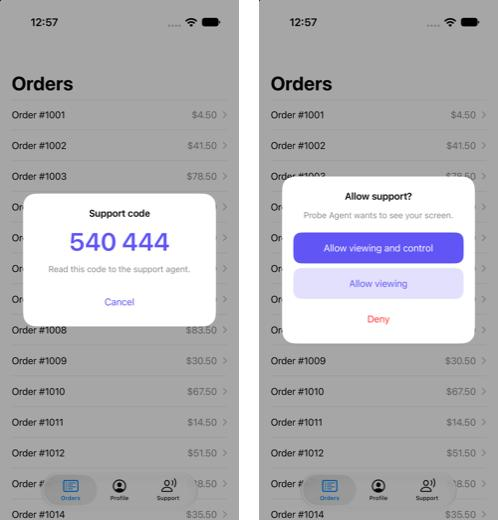
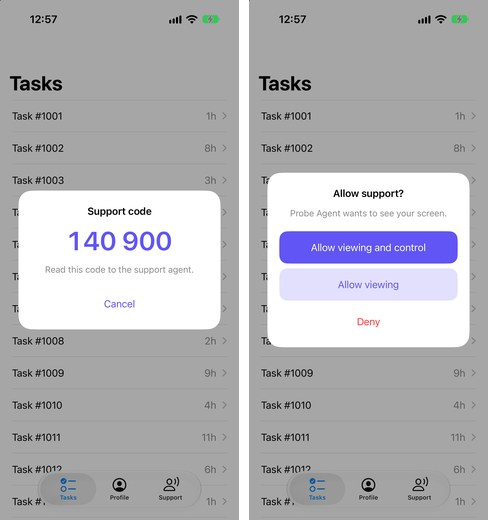
Make the sample app a generic task list
Replace the order-taking screens with tasks, swap the card masking demo for a recovery key, and retake the README screenshots.

diff --git a/Examples/SampleApp/SampleApp/TasksViewController.swift b/Examples/SampleApp/SampleApp/TasksViewController.swift
@@ -1,47 +1,47 @@
 import UIKit
 
-struct Order {
+struct Todo {
     let number: Int
-    let total: Double
-    var label: String { "Order #\(number)" }
-    var amount: String { String(format: "$%.2f", total) }
+    let hours: Int
+    var label: String { "Task #\(number)" }
+    var estimate: String { "\(hours)h" }
 }
 
-final class OrdersViewController: UITableViewController {
+final class TasksViewController: UITableViewController {
 
-    private let orders = (0..<40).map { Order(number: 1001 + $0, total: Double(($0 * 37) % 90) + 4.5) }
+    private let tasks = (0..<40).map { Todo(number: 1001 + $0, hours: ($0 * 7) % 12 + 1) }
 
     override func viewDidLoad() {
         super.viewDidLoad()
-        title = "Orders"
+        title = "Tasks"
         navigationController?.navigationBar.prefersLargeTitles = true
     }
 
     override func tableView(_ tableView: UITableView, numberOfRowsInSection section: Int) -> Int {
-        orders.count
+        tasks.count
     }
 
     override func tableView(_ tableView: UITableView, cellForRowAt indexPath: IndexPath) -> UITableViewCell {
-        let cell = tableView.dequeueReusableCell(withIdentifier: "order") ?? UITableViewCell(style: .value1, reuseIdentifier: "order")
-        cell.textLabel?.text = orders[indexPath.row].label
-        cell.detailTextLabel?.text = orders[indexPath.row].amount
+        let cell = tableView.dequeueReusableCell(withIdentifier: "task") ?? UITableViewCell(style: .value1, reuseIdentifier: "task")
+        cell.textLabel?.text = tasks[indexPath.row].label
+        cell.detailTextLabel?.text = tasks[indexPath.row].estimate
         cell.accessoryType = .disclosureIndicator
         return cell
     }
 
     override func tableView(_ tableView: UITableView, didSelectRowAt indexPath: IndexPath) {
-        navigationController?.pushViewController(OrderDetailViewController(order: orders[indexPath.row]), animated: true)
+        navigationController?.pushViewController(TaskDetailViewController(task: tasks[indexPath.row]), animated: true)
     }
 }
 
-final class OrderDetailViewController: UIViewController, UIPopoverPresentationControllerDelegate {
+final class TaskDetailViewController: UIViewController, UIPopoverPresentationControllerDelegate {
 
-    private let order: Order
+    private let task: Todo
     private let optionsButton = UIButton(configuration: .tinted())
     private let summary = UILabel()
 
-    init(order: Order) {
-        self.order = order
+    init(task: Todo) {
+        self.task = task
         super.init(nibName: nil, bundle: nil)
     }
 
@@ -49,23 +49,23 @@ final class OrderDetailViewController: UIViewController, UIPopoverPresentationCo
 
     override func viewDidLoad() {
         super.viewDidLoad()
-        title = order.label
+        title = task.label
         navigationItem.largeTitleDisplayMode = .never
         view.backgroundColor = .systemGroupedBackground
 
-        summary.text = "Total \(order.amount)"
+        summary.text = "Estimate \(task.estimate)"
         summary.font = .preferredFont(forTextStyle: .title2)
 
-        let paid = UISwitch()
-        paid.addAction(UIAction { [weak self] action in
-            self?.summary.text = "Total \(self?.order.amount ?? "")" + ((action.sender as? UISwitch)?.isOn == true ? " · Paid" : "")
+        let done = UISwitch()
+        done.addAction(UIAction { [weak self] action in
+            self?.summary.text = "Estimate \(self?.task.estimate ?? "")" + ((action.sender as? UISwitch)?.isOn == true ? " · Done" : "")
         }, for: .valueChanged)
 
-        let type = UISegmentedControl(items: ["Dine in", "Takeaway", "Delivery"])
-        type.selectedSegmentIndex = 0
+        let priority = UISegmentedControl(items: ["Low", "Medium", "High"])
+        priority.selectedSegmentIndex = 1
 
         let note = UITextField()
-        note.placeholder = "Note for the kitchen"
+        note.placeholder = "Add a comment"
         note.borderStyle = .roundedRect
         note.returnKeyType = .done
         note.addAction(UIAction { _ in note.resignFirstResponder() }, for: .editingDidEndOnExit)
@@ -75,13 +75,13 @@ final class OrderDetailViewController: UIViewController, UIPopoverPresentationCo
 
         let toast = UIButton(configuration: .tinted())
         toast.configuration?.title = "Save"
-        toast.addAction(UIAction { _ in Toast.show("Order saved") }, for: .touchUpInside)
+        toast.addAction(UIAction { _ in Toast.show("Task saved") }, for: .touchUpInside)
 
-        let card = UIButton(configuration: .plain())
-        card.configuration?.title = "Payment card details"
-        card.addAction(UIAction { [weak self] _ in self?.navigationController?.pushViewController(CardDetailsViewController(), animated: true) }, for: .touchUpInside)
+        let secret = UIButton(configuration: .plain())
+        secret.configuration?.title = "Recovery key"
+        secret.addAction(UIAction { [weak self] _ in self?.navigationController?.pushViewController(RecoveryKeyViewController(), animated: true) }, for: .touchUpInside)
 
-        let stack = UIStackView(arrangedSubviews: [summary, row("Paid", paid), type, note, optionsButton, toast, card])
+        let stack = UIStackView(arrangedSubviews: [summary, row("Done", done), priority, note, optionsButton, toast, secret])
         stack.axis = .vertical
         stack.spacing = 18
         stack.translatesAutoresizingMaskIntoConstraints = false
@@ -120,7 +120,7 @@ final class OrderDetailViewController: UIViewController, UIPopoverPresentationCo
 
 final class OptionsViewController: UITableViewController {
 
-    private let choices = ["No onions", "Extra spicy", "Gift wrap", "Call on arrival"]
+    private let choices = ["Remind me", "Flag", "Duplicate", "Move to next week"]
     private let onChoose: (String) -> Void
 
     init(onChoose: @escaping (String) -> Void) {
@@ -146,13 +146,13 @@ final class OptionsViewController: UITableViewController {
     }
 }
 
-final class CardDetailsViewController: UIViewController {
+final class RecoveryKeyViewController: UIViewController {
     override func viewDidLoad() {
         super.viewDidLoad()
-        title = "Card"
+        title = "Recovery key"
         view.backgroundColor = .systemBackground
         let label = UILabel()
-        label.text = "4242 4242 4242 4242\nExp 12/29 · CVC 123"
+        label.text = "K7QD-29XF-M4LP\nRW8N-3HCT-V6ZB"
         label.numberOfLines = 0
         label.textAlignment = .center
         label.font = .monospacedDigitSystemFont(ofSize: 24, weight: .medium)

diff --git a/Examples/SampleApp/SampleApp/AppDelegate.swift b/Examples/SampleApp/SampleApp/AppDelegate.swift
@@ -20,12 +20,12 @@ final class SceneDelegate: UIResponder, UIWindowSceneDelegate {
 final class RootTabController: UITabBarController {
     override func viewDidLoad() {
         super.viewDidLoad()
-        let orders = UINavigationController(rootViewController: OrdersViewController())
-        orders.tabBarItem = UITabBarItem(title: "Orders", image: UIImage(systemName: "list.bullet.rectangle"), tag: 0)
+        let tasks = UINavigationController(rootViewController: TasksViewController())
+        tasks.tabBarItem = UITabBarItem(title: "Tasks", image: UIImage(systemName: "checklist"), tag: 0)
         let profile = ProfileHostingController()
         profile.tabBarItem = UITabBarItem(title: "Profile", image: UIImage(systemName: "person.crop.circle"), tag: 1)
         let support = UINavigationController(rootViewController: SupportViewController())
         support.tabBarItem = UITabBarItem(title: "Support", image: UIImage(systemName: "person.wave.2"), tag: 2)
-        viewControllers = [orders, profile, support]
+        viewControllers = [tasks, profile, support]
     }
 }

diff --git a/Examples/SampleApp/SampleApp/ProfileView.swift b/Examples/SampleApp/SampleApp/ProfileView.swift
@@ -43,13 +43,13 @@ struct ProfileView: View {
                 }
 
                 Section("Private") {
-                    Text("Card on file: 4242 4242 4242 4242")
+                    Text("Recovery key: K7QD-29XF-M4LP")
                         .sideSeatMasked()
                 }
 
                 Section("History") {
-                    ForEach(1...30, id: \.self) { visit in
-                        Text("Visit \(visit)")
+                    ForEach(1...30, id: \.self) { entry in
+                        Text("Sign-in \(entry)")
                     }
                 }
             }

diff --git a/Examples/SampleApp/SampleApp/Support.swift b/Examples/SampleApp/SampleApp/Support.swift
@@ -14,7 +14,7 @@ enum Support {
         guard let url = URL(string: relay) else { return }
         var configuration = SideSeat.Configuration(relay: url)
         configuration.tint = .systemIndigo
-        configuration.maskRule = MaskRules.screens([CardDetailsViewController.self])
+        configuration.maskRule = MaskRules.screens([RecoveryKeyViewController.self])
         if let mode = UserDefaults.standard.string(forKey: "SideSeatAutoConsent").flatMap(SessionMode.init(rawValue:)) {
             configuration.consentHandler = { _, decide in decide(mode) }
         }
